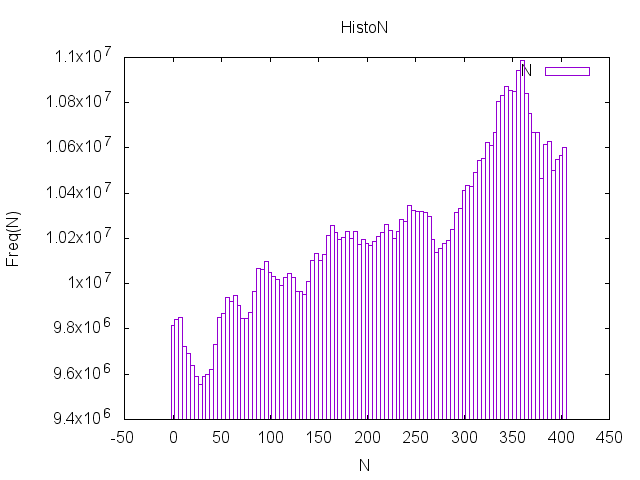
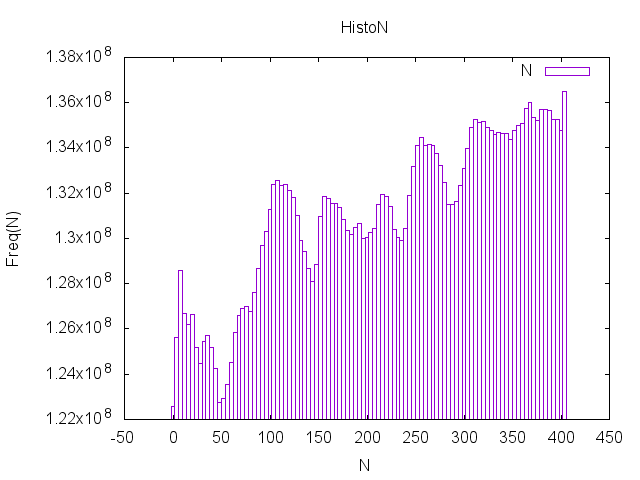
seems works！＂ ＂

diff --git a/MC.cpp b/MC.cpp
@@ -254,8 +254,8 @@ array<double,10000>  MC::MCRUN()
 		double size = nv+nh;
 		prob = ((double) rand() / (RAND_MAX)); 
 
-		aaccp = V/((size+1.0)*K);
-		daccp = (size*K)/V;	
+		aaccp = z*V/((size+1.0)*K);
+		daccp = (size*K)/(V*z);	
 
 		// probd = min(1.0,daccp);
 		// proba = min(1.0,aaccp);
@@ -359,7 +359,7 @@ int main()
 	// ======================= MCRUN & Plotting the final config ===============================
 	array<double,10000>  wf;
 	vector<HR> R;
-	MC m(1E8L,8,64,64,1);
+	MC m(1E8L,8,64,64,14);
 	wf = m.MCRUN();
 	// ======================= end of simulation, print out the time =======
 	double end = clock();
